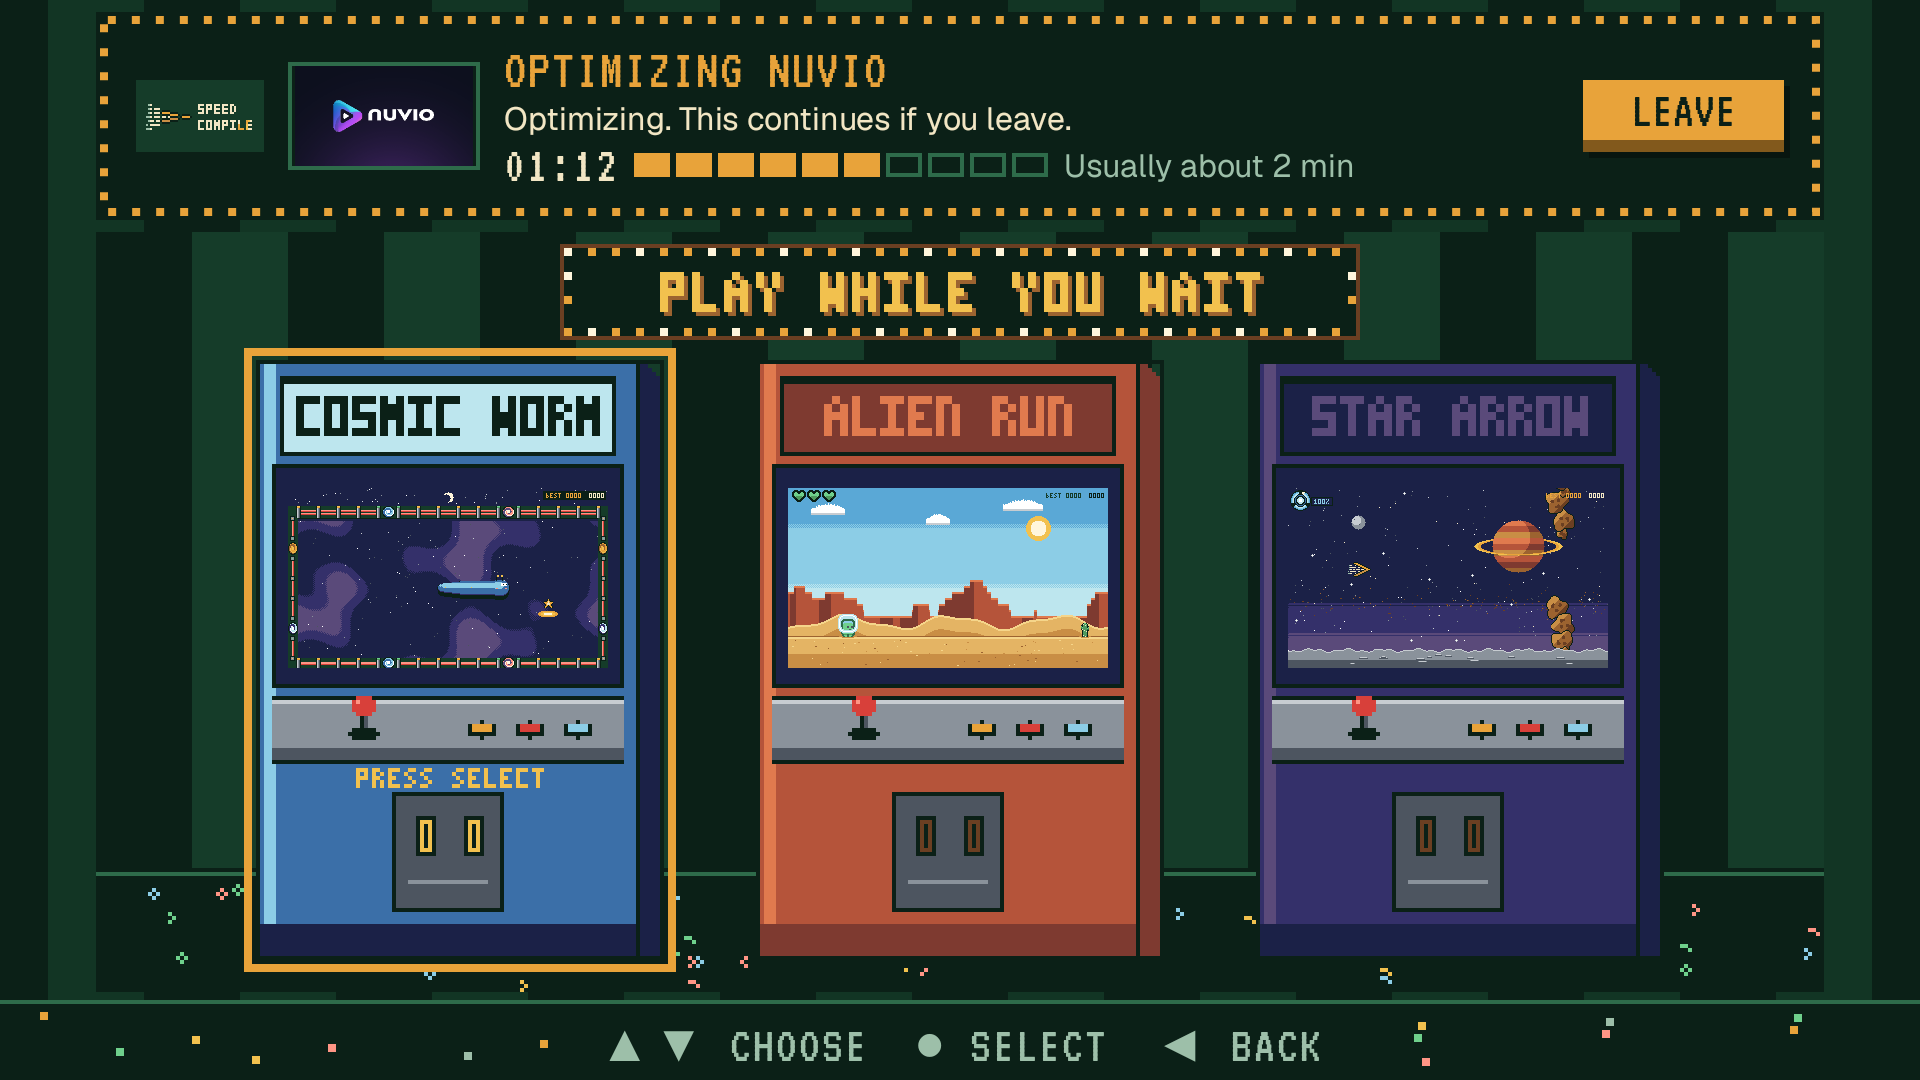
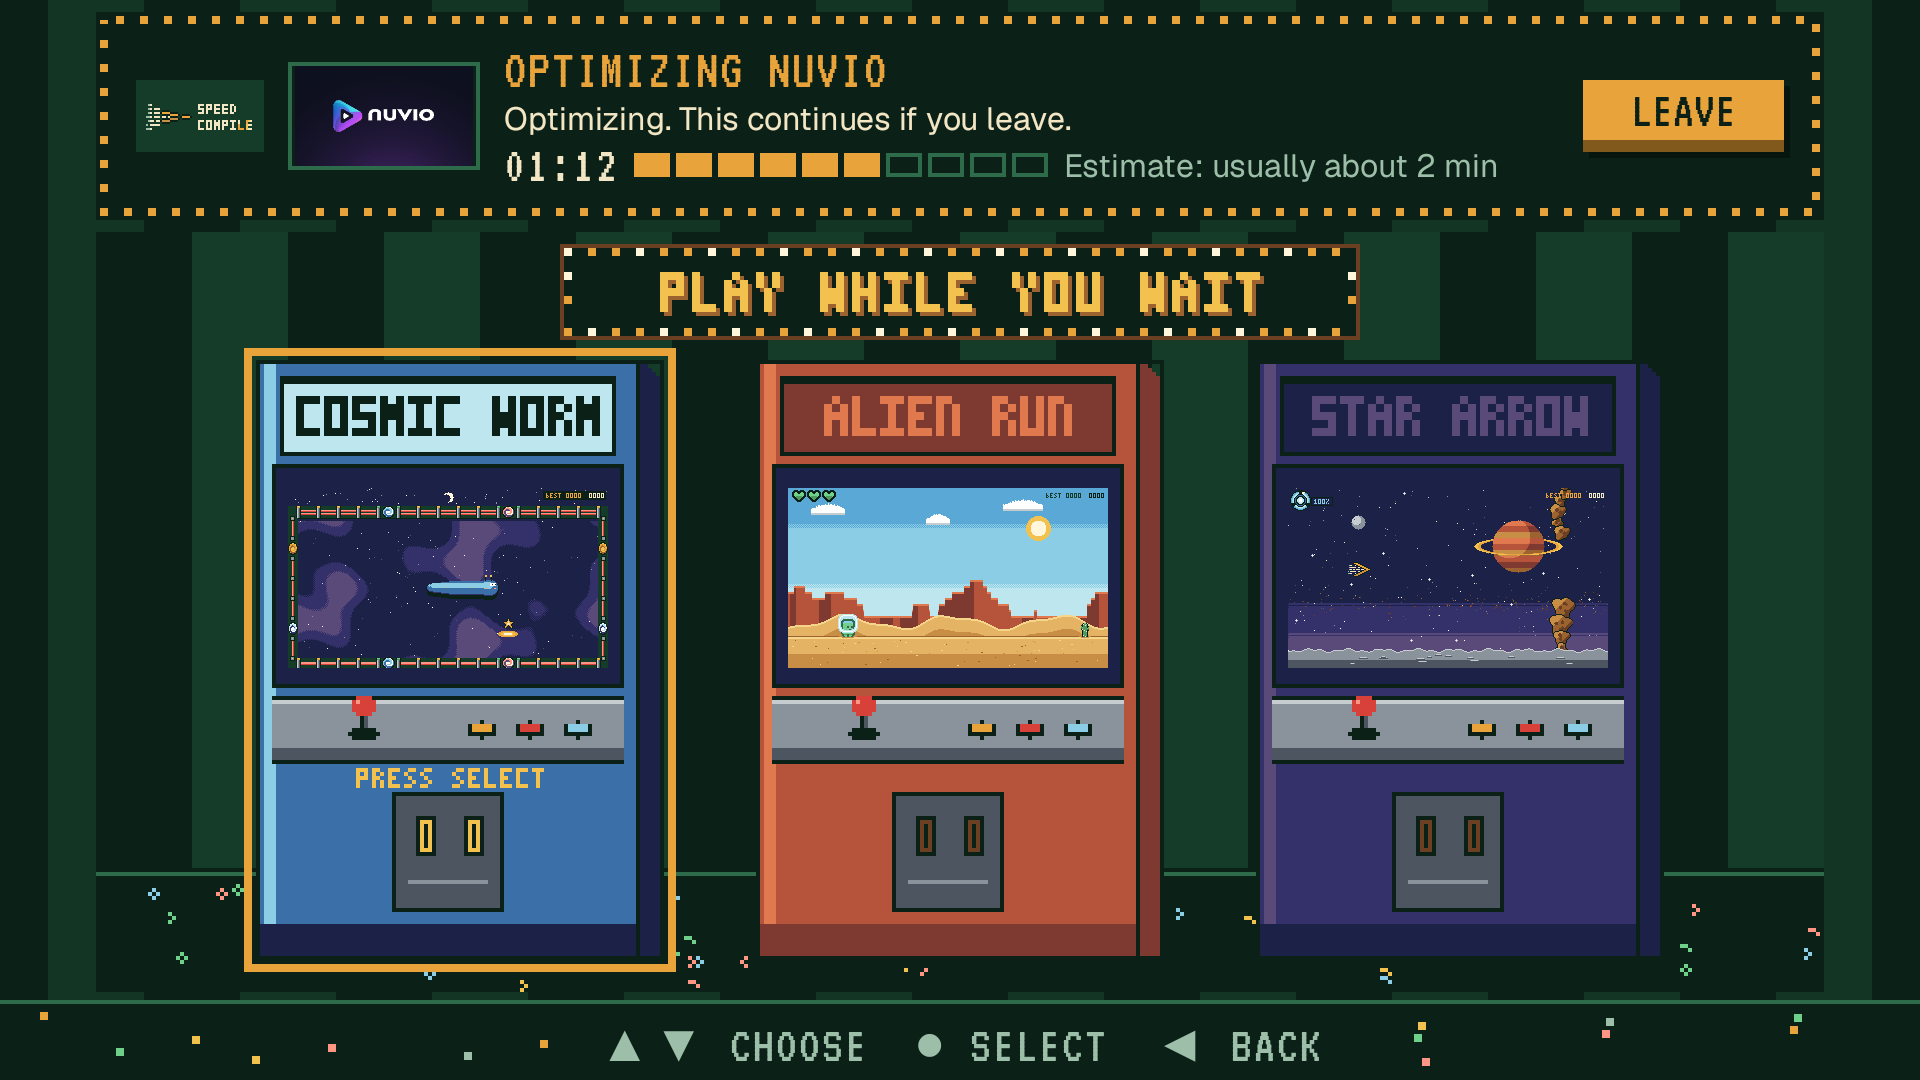
Working and Activity honesty (B-11 B-19 B-20 B-21) (#10)

diff --git a/app/src/main/kotlin/dev/speedcompiler/tv/ui/working/WorkingScreen.kt b/app/src/main/kotlin/dev/speedcompiler/tv/ui/working/WorkingScreen.kt
@@ -66,6 +66,8 @@ import dev.speedcompiler.tv.theme.PixelBanner
 import dev.speedcompiler.tv.theme.MonoStyle
 import dev.speedcompiler.tv.theme.Space
 import dev.speedcompiler.tv.ui.home.AppLook
+import dev.speedcompiler.tv.ui.home.JobResult
+import dev.speedcompiler.tv.ui.home.jobResult
 import dev.speedcompiler.tv.ui.home.etaText
 import dev.speedcompiler.tv.ui.home.rememberGraph
 import dev.speedcompiler.tv.ui.home.lookup
@@ -144,7 +146,12 @@ class WorkingState(
     val connection: ConnectionState? = ConnectionState.Connected,
     /** Best score per [GameKind] name. */
     val bests: Map<String, Int> = emptyMap(),
+    /** The TV reported the result as fully compiled; without it a finished run is only "compiled". */
+    val verified: Boolean = false,
 )
+
+/** Running for real: a running job without a connection is only waiting to retry. */
+private val WorkingState.running get() = job == JobView.Running && connection == ConnectionState.Connected
 
 @Composable
 fun WorkingScreen(pkg: String, back: () -> Unit) {
@@ -155,8 +162,10 @@ fun WorkingScreen(pkg: String, back: () -> Unit) {
     val context = LocalContext.current
     val look by produceState(AppLook(pkg), pkg) { value = withContext(Dispatchers.IO) { lookup(context, pkg) } }
     val bests = remember(graph) { graph.settings.values.map { it.bests } }
+    // The run's own event, not watched_app: a manual run on an unwatched app has no row there.
+    val verified = remember(graph, pkg) { graph.database.events().recent(50).map { l -> jobResult(l.firstOrNull { it.packageName == pkg && it.kind.startsWith("optimize_") }?.message, null) == JobResult.Verified } }
     WorkingHost(
-        pkg, look, flows.first, flows.second, connection = connection, bests = bests,
+        pkg, look, flows.first, flows.second, connection = connection, bests = bests, verified = verified,
         saveBest = { game, score -> graph.appScope.launch { graph.settings.update { it.copy(bests = it.bests + (game to max(score, it.bests[game] ?: 0))) } } },
         back = back,
     )
@@ -168,9 +177,10 @@ fun WorkingHost(
     pkg: String, look: AppLook, queue: Flow<List<QueueEntry>>, history: Flow<List<QueueItem>>,
     clock: () -> Long = System::currentTimeMillis,
     connection: Flow<ConnectionState> = flowOf(ConnectionState.Connected),
-    bests: Flow<Map<String, Int>> = flowOf(emptyMap()), saveBest: (String, Int) -> Unit = { _, _ -> }, back: () -> Unit,
+    bests: Flow<Map<String, Int>> = flowOf(emptyMap()), verified: Flow<Boolean> = flowOf(false), saveBest: (String, Int) -> Unit = { _, _ -> }, back: () -> Unit,
 ) {
     val best by bests.collectAsState(emptyMap())
+    val checked by verified.collectAsState(false)
     val openedAt = rememberSaveable { clock() }
     val q by queue.collectAsState(emptyList())
     val h by history.collectAsState(emptyList())
@@ -184,7 +194,7 @@ fun WorkingHost(
     }
     val end = if (job.finished) run?.finishedAt ?: now else now
     val elapsed = (end - (run?.startedAt ?: openedAt)).coerceAtLeast(0)
-    WorkingContent(WorkingState(look.label, look.banner ?: look.icon, job, elapsed, averageDuration(h), conn, best), back, saveBest)
+    WorkingContent(WorkingState(look.label, look.banner ?: look.icon, job, elapsed, averageDuration(h), conn, best, checked), back, saveBest)
 }
 
 @Composable
@@ -240,12 +250,13 @@ private fun WorkingHeader(s: WorkingState, back: () -> Unit, done: FocusRequeste
         val bezel = Modifier.size(96.dp, 54.dp).border(2.dp, c.hairline)
         if (s.art != null) Image(s.art, null, bezel.padding(2.dp)) else Box(bezel.padding(2.dp).background(c.accent))
         Column(Modifier.weight(1f)) {
-            PixelText(if (s.job.finished) s.label else "Optimizing ${s.label}", color = c.accent, size = 28.sp, overflow = TextOverflow.Ellipsis)
+            val running = s.running
+            PixelText(if (s.job.finished) s.label else if (running) "Optimizing ${s.label}" else "Waiting to optimize ${s.label}", color = c.accent, size = 28.sp, overflow = TextOverflow.Ellipsis)
             // Without a connection the worker loops running -> retry; say what it is really waiting on.
             if (!s.job.finished && s.connection != ConnectionState.Connected) {
                 line(s.connection?.let(::waitingForConnectionText) ?: "Starting…", cs.onSurface)
             } else when (val j = s.job) {
-                is JobView.Done -> line("Optimized. You can leave now.", c.ok)
+                is JobView.Done -> line(if (s.verified) "Optimized. You can leave now." else "Compiled. You can leave now.", c.ok)
                 is JobView.Failed -> line("Didn't finish: ${j.reason}", c.error)
                 is JobView.Waiting -> line(etaText(j.eta).ifEmpty { "Waiting for its turn" }, cs.onSurface)
                 JobView.CouldntStart -> line("Couldn't start. Try again from the app.", c.error)
@@ -259,14 +270,14 @@ private fun WorkingHeader(s: WorkingState, back: () -> Unit, done: FocusRequeste
                 )
                 if (!s.job.finished) {
                     val blocks = 10
-                    val filled = (s.elapsedMillis * blocks / s.avgMillis.coerceAtLeast(1)).coerceIn(0, blocks.toLong()).toInt()
-                    Row(horizontalArrangement = Arrangement.spacedBy(3.dp)) {
+                    val filled = (if (running) s.elapsedMillis * blocks / s.avgMillis.coerceAtLeast(1) else 0).coerceIn(0, blocks.toLong()).toInt()
+                    Row(Modifier.semantics { contentDescription = "Time estimate, $filled of $blocks blocks" }, horizontalArrangement = Arrangement.spacedBy(3.dp)) {
                         repeat(blocks) { i ->
                             Box(Modifier.size(18.dp, 12.dp).then(if (i < filled) Modifier.background(c.accent) else Modifier.border(2.dp, c.hairline)))
                         }
                     }
                     Text(
-                        "Usually about ${usuallyMinutes(s.avgMillis)} min",
+                        "Estimate: usually about ${usuallyMinutes(s.avgMillis)} min",
                         style = MaterialTheme.typography.bodyMedium, color = cs.onSurfaceVariant, maxLines = 1,
                     )
                 }
@@ -284,9 +295,9 @@ private fun WorkingHeader(s: WorkingState, back: () -> Unit, done: FocusRequeste
 private fun StatusLine(s: WorkingState) {
     val ok = s.job is JobView.Done
     val text = when (val j = s.job) {
-        is JobView.Done -> "${s.label} optimized"
+        is JobView.Done -> "${s.label} ${if (s.verified) "optimized" else "compiled"}"
         is JobView.Failed, JobView.CouldntStart -> "${s.label} didn't finish"
-        else -> "Optimizing ${s.label}"
+        else -> if (s.running) "Optimizing ${s.label}" else "Waiting to optimize ${s.label}"
     }
     val color = if (ok) GameColors.green3 else GameColors.cream
     Row(

diff --git a/app/src/test/kotlin/dev/speedcompiler/tv/ui/working/WorkingScreenTest.kt b/app/src/test/kotlin/dev/speedcompiler/tv/ui/working/WorkingScreenTest.kt
@@ -89,7 +89,7 @@ class WorkingScreenTest : ComposeTestBase() {
     fun runningShowsHonestProgressAndScreenshot() {
         show()
         rule.onNodeWithText("Optimizing Alpha", ignoreCase = true).assertIsDisplayed()
-        rule.onNodeWithText("Usually about 2 min").assertIsDisplayed()
+        rule.onNodeWithText("Estimate: usually about 2 min").assertIsDisplayed()
         rule.onNodeWithText("00:00").assertIsDisplayed()
         rule.onNodeWithContentDescription("Play Cosmic Worm. Eat stars, use the gates").assertIsDisplayed()
         rule.onNodeWithContentDescription("Play Alien Run. Jump the cacti").assertIsDisplayed()
@@ -217,7 +217,7 @@ class WorkingScreenTest : ComposeTestBase() {
 
         finish(item(1, QueueState.DONE).copy(finishedAt = base + 20_000))
         rule.mainClock.advanceTimeBy(2_000)
-        rule.onNodeWithText("Alpha optimized").assertIsDisplayed() // status line turns to the result; the game stays frozen behind DONE
+        rule.onNodeWithText("Alpha compiled").assertIsDisplayed() // status line turns to the result; the game stays frozen behind DONE
         rule.onNodeWithText("Back to leave").assertIsDisplayed()
         rule.onNodeWithText("00:20").assertIsDisplayed() // the clock stopped with the job
         assertEquals(0, left) // not auto-closed
@@ -255,4 +255,44 @@ class WorkingScreenTest : ComposeTestBase() {
         rule.mainClock.advanceTimeBy(1_000)
         rule.onNodeWithText("Didn't finish: the TV disconnected").assertIsDisplayed()
     }
+
+    private fun shot(name: String, job: JobView, elapsed: Long = 90_000, verified: Boolean = false, connection: ConnectionState = ConnectionState.Connected, text: String, title: String, bar: String?) {
+        rule.mainClock.autoAdvance = false
+        rule.setContent { SpeedTheme { WorkingContent(WorkingState("Alpha", null, job, elapsed, 120_000, connection, verified = verified), {}) } }
+        rule.mainClock.advanceTimeByFrame()
+        rule.onNodeWithText(title, ignoreCase = true).assertIsDisplayed()
+        rule.onNodeWithText(text).assertIsDisplayed()
+        if (bar == null) rule.onNodeWithContentDescription("Time estimate", substring = true).assertDoesNotExist()
+        else rule.onNodeWithContentDescription(bar).assertIsDisplayed()
+        rule.onRoot().captureRoboImage("build/outputs/roborazzi/working_$name.png")
+    }
+
+    @Test
+    fun waitingShowsWaitingTitleAndEmptyBar() =
+        shot("waiting", JobView.Waiting(Eta.None), text = "Waiting for its turn", title = "Waiting to optimize Alpha", bar = "Time estimate, 0 of 10 blocks")
+
+    @Test
+    fun startingShowsWaitingTitleAndEmptyBar() =
+        shot("starting", JobView.Starting, text = "Starting…", title = "Waiting to optimize Alpha", bar = "Time estimate, 0 of 10 blocks")
+
+    @Test
+    fun runningFillsTheBarFromElapsed() =
+        shot("running_bar", JobView.Running, text = "Optimizing. This continues if you leave.", title = "Optimizing Alpha", bar = "Time estimate, 7 of 10 blocks")
+
+    @Test
+    fun runningWithoutConnectionSaysWaiting() =
+        shot("running_disconnected", JobView.Running, connection = ConnectionState.Disconnected,
+            text = "Waiting for the TV's debugging connection. It retries on its own.", title = "Waiting to optimize Alpha", bar = "Time estimate, 0 of 10 blocks")
+
+    @Test
+    fun finishedUnverifiedSaysCompiled() =
+        shot("compiled", JobView.Done, text = "Compiled. You can leave now.", title = "Alpha", bar = null)
+
+    @Test
+    fun finishedVerifiedSaysOptimized() =
+        shot("verified", JobView.Done, verified = true, text = "Optimized. You can leave now.", title = "Alpha", bar = null)
+
+    @Test
+    fun failedShowsReasonWithoutBar() =
+        shot("failed", JobView.Failed("base.apk (arm64) is verify, not speed."), text = "Didn't finish: base.apk (arm64) is verify, not speed.", title = "Alpha", bar = null)
 }

diff --git a/app/src/main/kotlin/dev/speedcompiler/tv/ui/home/ActivityScreen.kt b/app/src/main/kotlin/dev/speedcompiler/tv/ui/home/ActivityScreen.kt
@@ -130,7 +130,7 @@ fun ActivityContent(
             val time = clockText(h.finishedAt ?: h.enqueuedAt, zone)
             Column {
                 Row(
-                    Modifier.fillMaxWidth().semantics { contentDescription = "${l.label}, ${stateText(h.state)}" }
+                    Modifier.fillMaxWidth().semantics { contentDescription = listOfNotNull(l.label, stateText(h.state), time, reason).joinToString(", ") }
                         .focusFx(1.02f, RowRadius) { open = if (open == h.id) null else h.id }
                         .padding(horizontal = Space.x2, vertical = Space.x1),
                     verticalAlignment = Alignment.CenterVertically,

diff --git a/app/src/test/kotlin/dev/speedcompiler/tv/ui/home/HomeActivityTest.kt b/app/src/test/kotlin/dev/speedcompiler/tv/ui/home/HomeActivityTest.kt
@@ -206,6 +206,7 @@ class HomeActivityTest : ComposeTestBase() {
         rule.onNodeWithContentDescription("Cancel Beta").invokeClick()
         assertEquals(listOf(2L), cancelled)
         rule.onNodeWithText("Failed: Connection lost").assertIsDisplayed()
+        rule.onNodeWithContentDescription("Alpha, Failed, ${clockText(6_000, utc)}, Connection lost").fetchSemanticsNode()
         rule.onNodeWithContentDescription("Retry Alpha").performScrollTo().invokeClick()
         assertEquals(listOf(7L), retried)
         rule.onNodeWithText("Failed: Connection lost").invokeClick()
